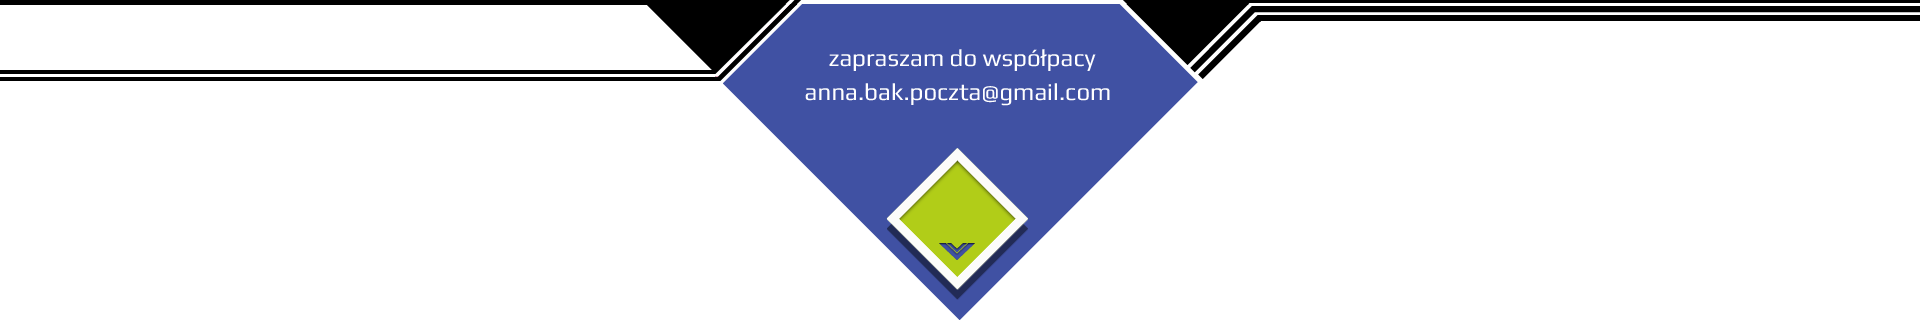
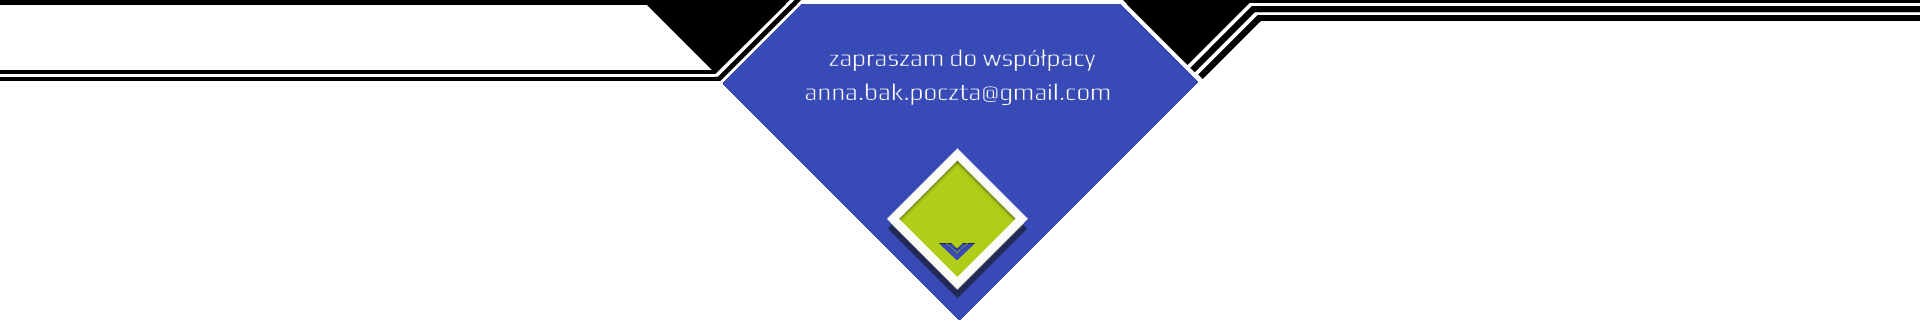
zmiana kolorow strzalek

Changed region(s): [[0.4062, 0.2484, 0.5938, 0.3416], [0.4375, 0.1553, 0.5625, 0.2174], [0.4688, 0.7453, 0.5312, 0.8075]]

diff --git a/index.html b/index.html
@@ -44,7 +44,7 @@
                  oraz grafiki komputerowej
 			</h2>
 			<div class="normalText">
-				W swojej pracy łączy wiedzę nabytą podczas studiów z możliwościami nowych mediów. Projektuje na potrzeby internetu i druku. Zajmuje się organizacją, oprawą wizualną i promocją działań kulturalnych.
+				 Projektuje na potrzeby internetu i druku. Zajmuje się organizacją, oprawą wizualną i promocją działań kulturalnych. W swojej pracy łączy wiedzę nabytą podczas studiów z możliwościami nowych mediów.  
 			</div>
 		</div>
 		
@@ -172,12 +172,12 @@
 			<svg version="1.1" id="Warstwa_1" xmlns="http://www.w3.org/2000/svg" xmlns:xlink="http://www.w3.org/1999/xlink" x="0px" y="0px"
 				width="54.566px" height="108px" viewBox="0 0 54.566 108" enable-background="new 0 0 54.566 108" xml:space="preserve"
 				class="sliderArrows sliderLeft" onclick="laptopSlider.prevPict();" >
-				<polygon fill="#C41157" points="54.188,101.762 6.713,54.005 54.188,6.909 54.188,0.024 0,54.193 54.188,108 "/>
+				<polygon fill="#384ab6" points="54.188,101.762 6.713,54.005 54.188,6.909 54.188,0.024 0,54.193 54.188,108 "/>
 			</svg>
 			<svg version="1.1" id="Warstwa_1" xmlns="http://www.w3.org/2000/svg" xmlns:xlink="http://www.w3.org/1999/xlink" x="0px" y="0px"
 				width="54.566px" height="108px" viewBox="0 0 54.566 108" enable-background="new 0 0 54.566 108" xml:space="preserve"
 				class="sliderArrows sliderRight" onclick="laptopSlider.nextPict();">
-				<polygon fill="#C41157" points="0,108 54.188,54.193 0,0.024 0,6.909 47.475,54.005 0,101.762 "/>
+				<polygon fill="#384ab6" points="0,108 54.188,54.193 0,0.024 0,6.909 47.475,54.005 0,101.762 "/>
 			</svg>
 		</div>
 	</div>
@@ -265,12 +265,12 @@
 				<svg version="1.1" id="Warstwa_1" xmlns="http://www.w3.org/2000/svg" xmlns:xlink="http://www.w3.org/1999/xlink" x="0px" y="0px"
 					width="54.566px" height="108px" viewBox="0 0 54.566 108" enable-background="new 0 0 54.566 108" xml:space="preserve"
 					class="sliderArrows sliderLeft" onclick="prevPict(this);" >
-					<polygon fill="#C41157" points="54.188,101.762 6.713,54.005 54.188,6.909 54.188,0.024 0,54.193 54.188,108 "/>
+					<polygon fill="#384ab6" points="54.188,101.762 6.713,54.005 54.188,6.909 54.188,0.024 0,54.193 54.188,108 "/>
 				</svg>
 				<svg version="1.1" id="Warstwa_1" xmlns="http://www.w3.org/2000/svg" xmlns:xlink="http://www.w3.org/1999/xlink" x="0px" y="0px"
 					width="54.566px" height="108px" viewBox="0 0 54.566 108" enable-background="new 0 0 54.566 108" xml:space="preserve"
 					class="sliderArrows sliderRight" onclick="nextPict(this);">
-					<polygon fill="#C41157" points="0,108 54.188,54.193 0,0.024 0,6.909 47.475,54.005 0,101.762 "/>
+					<polygon fill="#384ab6" points="0,108 54.188,54.193 0,0.024 0,6.909 47.475,54.005 0,101.762 "/>
 				</svg>
 				<div id="thirdText" class="sliderText centralLayer">
 					<h1>projekty DTP
@@ -342,12 +342,12 @@
 				<svg version="1.1" xmlns="http://www.w3.org/2000/svg" xmlns:xlink="http://www.w3.org/1999/xlink" x="0px" y="0px"
 					width="54.566px" height="108px" viewBox="0 0 54.566 108" enable-background="new 0 0 54.566 108" xml:space="preserve"
 					class="sliderArrows sliderLeft" onclick="prevPict(this);" >
-					<polygon fill="#C41157" points="54.188,101.762 6.713,54.005 54.188,6.909 54.188,0.024 0,54.193 54.188,108 "/>
+					<polygon fill="#384ab6" points="54.188,101.762 6.713,54.005 54.188,6.909 54.188,0.024 0,54.193 54.188,108 "/>
 				</svg>
 				<svg version="1.1" xmlns="http://www.w3.org/2000/svg" xmlns:xlink="http://www.w3.org/1999/xlink" x="0px" y="0px"
 					width="54.566px" height="108px" viewBox="0 0 54.566 108" enable-background="new 0 0 54.566 108" xml:space="preserve"
 					class="sliderArrows sliderRight" onclick="nextPict(this);">
-					<polygon fill="#C41157" points="0,108 54.188,54.193 0,0.024 0,6.909 47.475,54.005 0,101.762 "/>
+					<polygon fill="#384ab6" points="0,108 54.188,54.193 0,0.024 0,6.909 47.475,54.005 0,101.762 "/>
 				</svg>
 				<div id="fourthText" class="sliderText centralLayer">
 					<h1>komunikacja wizualna
@@ -442,12 +442,12 @@
 				<svg version="1.1" xmlns="http://www.w3.org/2000/svg" xmlns:xlink="http://www.w3.org/1999/xlink" x="0px" y="0px"
 					width="54.566px" height="108px" viewBox="0 0 54.566 108" enable-background="new 0 0 54.566 108" xml:space="preserve"
 					class="sliderArrows sliderLeft" onclick="prevPict(this);" >
-					<polygon fill="#C41157" points="54.188,101.762 6.713,54.005 54.188,6.909 54.188,0.024 0,54.193 54.188,108 "/>
+					<polygon fill="#384ab6" points="54.188,101.762 6.713,54.005 54.188,6.909 54.188,0.024 0,54.193 54.188,108 "/>
 				</svg>
 				<svg version="1.1" xmlns="http://www.w3.org/2000/svg" xmlns:xlink="http://www.w3.org/1999/xlink" x="0px" y="0px"
 					width="54.566px" height="108px" viewBox="0 0 54.566 108" enable-background="new 0 0 54.566 108" xml:space="preserve"
 					class="sliderArrows sliderRight" onclick="nextPict(this);">
-					<polygon fill="#C41157" points="0,108 54.188,54.193 0,0.024 0,6.909 47.475,54.005 0,101.762 "/>
+					<polygon fill="#384ab6" points="0,108 54.188,54.193 0,0.024 0,6.909 47.475,54.005 0,101.762 "/>
 				</svg>
 				<div id="fifthText" class="sliderText centralLayer">
 					<h1>kultura
@@ -512,12 +512,12 @@
 				<svg version="1.1" xmlns="http://www.w3.org/2000/svg" xmlns:xlink="http://www.w3.org/1999/xlink" x="0px" y="0px"
 					width="54.566px" height="108px" viewBox="0 0 54.566 108" enable-background="new 0 0 54.566 108" xml:space="preserve"
 					class="sliderArrows sliderLeft" onclick="prevPict(this);" >
-					<polygon fill="#C41157" points="54.188,101.762 6.713,54.005 54.188,6.909 54.188,0.024 0,54.193 54.188,108 "/>
+					<polygon fill="#384ab6" points="54.188,101.762 6.713,54.005 54.188,6.909 54.188,0.024 0,54.193 54.188,108 "/>
 				</svg>
 				<svg version="1.1" xmlns="http://www.w3.org/2000/svg" xmlns:xlink="http://www.w3.org/1999/xlink" x="0px" y="0px"
 					width="54.566px" height="108px" viewBox="0 0 54.566 108" enable-background="new 0 0 54.566 108" xml:space="preserve"
 					class="sliderArrows sliderRight" onclick="nextPict(this);">
-					<polygon fill="#C41157" points="0,108 54.188,54.193 0,0.024 0,6.909 47.475,54.005 0,101.762 "/>
+					<polygon fill="#384ab6" points="0,108 54.188,54.193 0,0.024 0,6.909 47.475,54.005 0,101.762 "/>
 				</svg>
 				<div id="sixthText" class="sliderText centralLayer">
 					<h1 class="tvDescription">animacje
@@ -585,12 +585,12 @@
 				<svg version="1.1" xmlns="http://www.w3.org/2000/svg" xmlns:xlink="http://www.w3.org/1999/xlink" x="0px" y="0px"
 					width="54.566px" height="108px" viewBox="0 0 54.566 108" enable-background="new 0 0 54.566 108" xml:space="preserve"
 					class="sliderArrows sliderLeft" onclick="prevPict(this);" >
-					<polygon fill="#C41157" points="54.188,101.762 6.713,54.005 54.188,6.909 54.188,0.024 0,54.193 54.188,108 "/>
+					<polygon fill="#384ab6" points="54.188,101.762 6.713,54.005 54.188,6.909 54.188,0.024 0,54.193 54.188,108 "/>
 				</svg>
 				<svg version="1.1" xmlns="http://www.w3.org/2000/svg" xmlns:xlink="http://www.w3.org/1999/xlink" x="0px" y="0px"
 					width="54.566px" height="108px" viewBox="0 0 54.566 108" enable-background="new 0 0 54.566 108" xml:space="preserve"
 					class="sliderArrows sliderRight" onclick="nextPict(this);">
-					<polygon fill="#C41157" points="0,108 54.188,54.193 0,0.024 0,6.909 47.475,54.005 0,101.762 "/>
+					<polygon fill="#384ab6" points="0,108 54.188,54.193 0,0.024 0,6.909 47.475,54.005 0,101.762 "/>
 				</svg>
 				<div id="seventhText" class="sliderText centralLayer">
 					<h1>warsztaty kreatywne
@@ -643,7 +643,7 @@
 	</div>
 	
 	<div id="footer">
-		<a id="footerCV" class="centralLayer" href="files/Anna Bąk_CV.pdf">zobacz<br>CV</a>
+		<a id="footerCV" class="centralLayer" href="files/Anna Bąk_CV.pdf">zobacz CV</a>
 	</div>
 	
 	<!--<div class="shoe" data-stellar-background-ratio="0.5"></div>-->

diff --git a/style.css b/style.css
@@ -14,7 +14,7 @@ h1 {
 }
 
 h2 {
-	color: #c21b60;
+	color: #3b54e8;
 	font-size: 18pt;
 	font-weight: normal;
 	margin-bottom: 3px;
@@ -150,7 +150,7 @@ a {
 	background-position: 50% 0;
 	background-repeat: no-repeat;
 	height:330px;
-	color: #4051A3;
+	color: #384ab6;
 	width: 100%;
 	margin-bottom: 280px;
 }
@@ -161,7 +161,7 @@ a {
 	top: 150px;
 	position: relative;
 	text-align: center;
-	padding-top: 50px;
+	padding-top: 60px;
 	display: block;
 }
 
@@ -235,7 +235,7 @@ a {
 }
 
 .selectedRect {
-	fill: #C41B60;
+	fill: #384ab6;
 }
 
 .unselectedRectBright {
@@ -416,4 +416,3 @@ a {
 .col5 {
 	left: 673px;
 }
-
